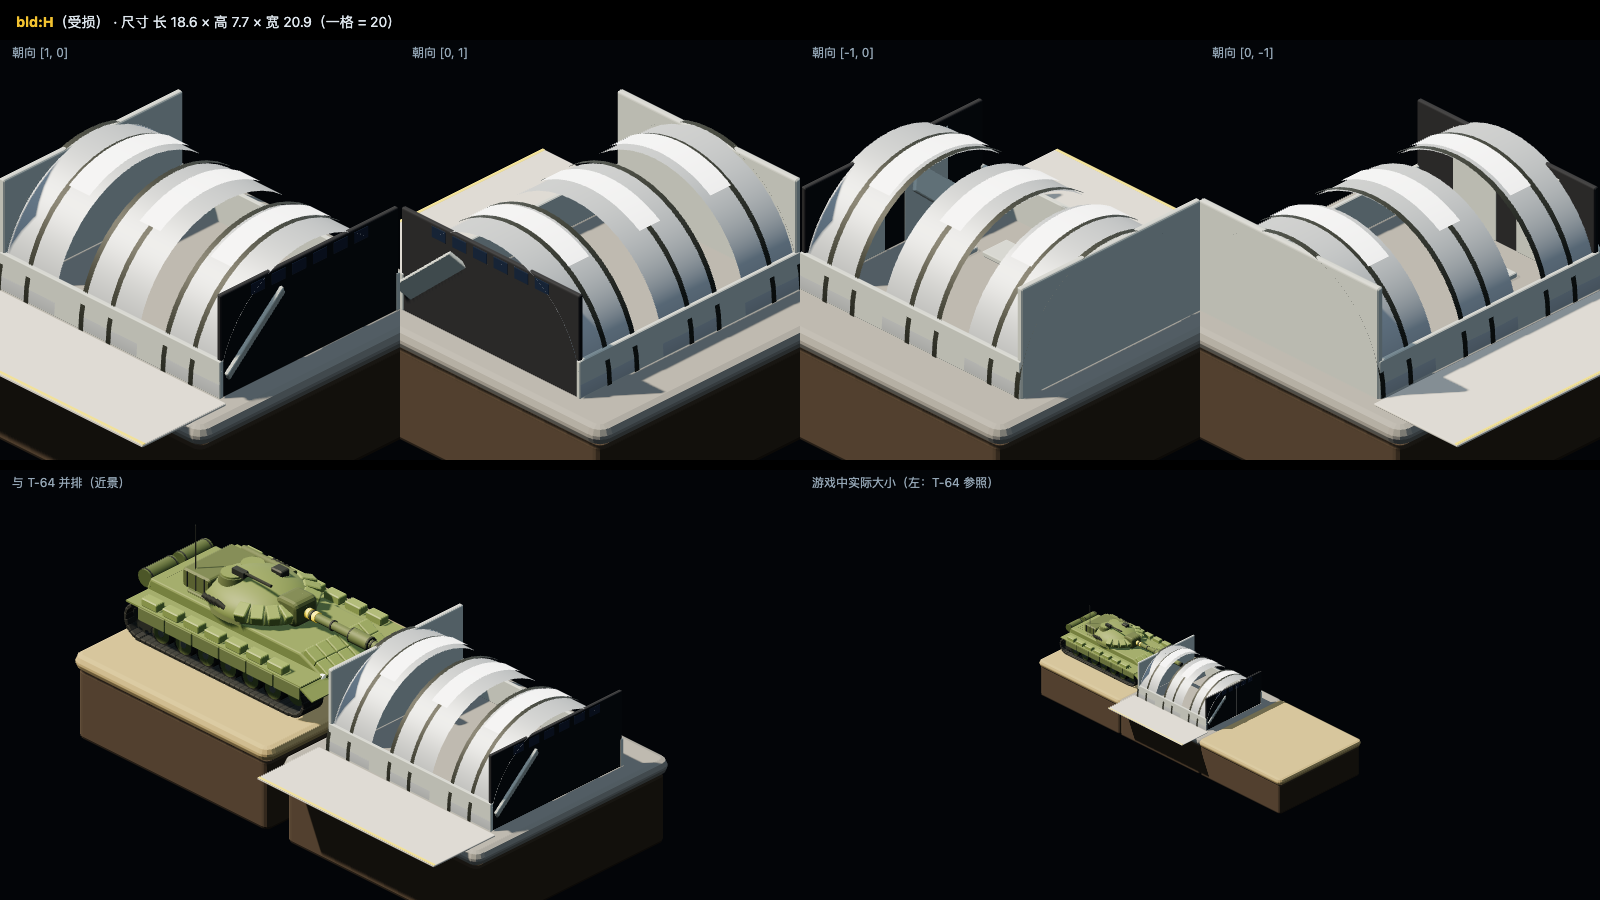
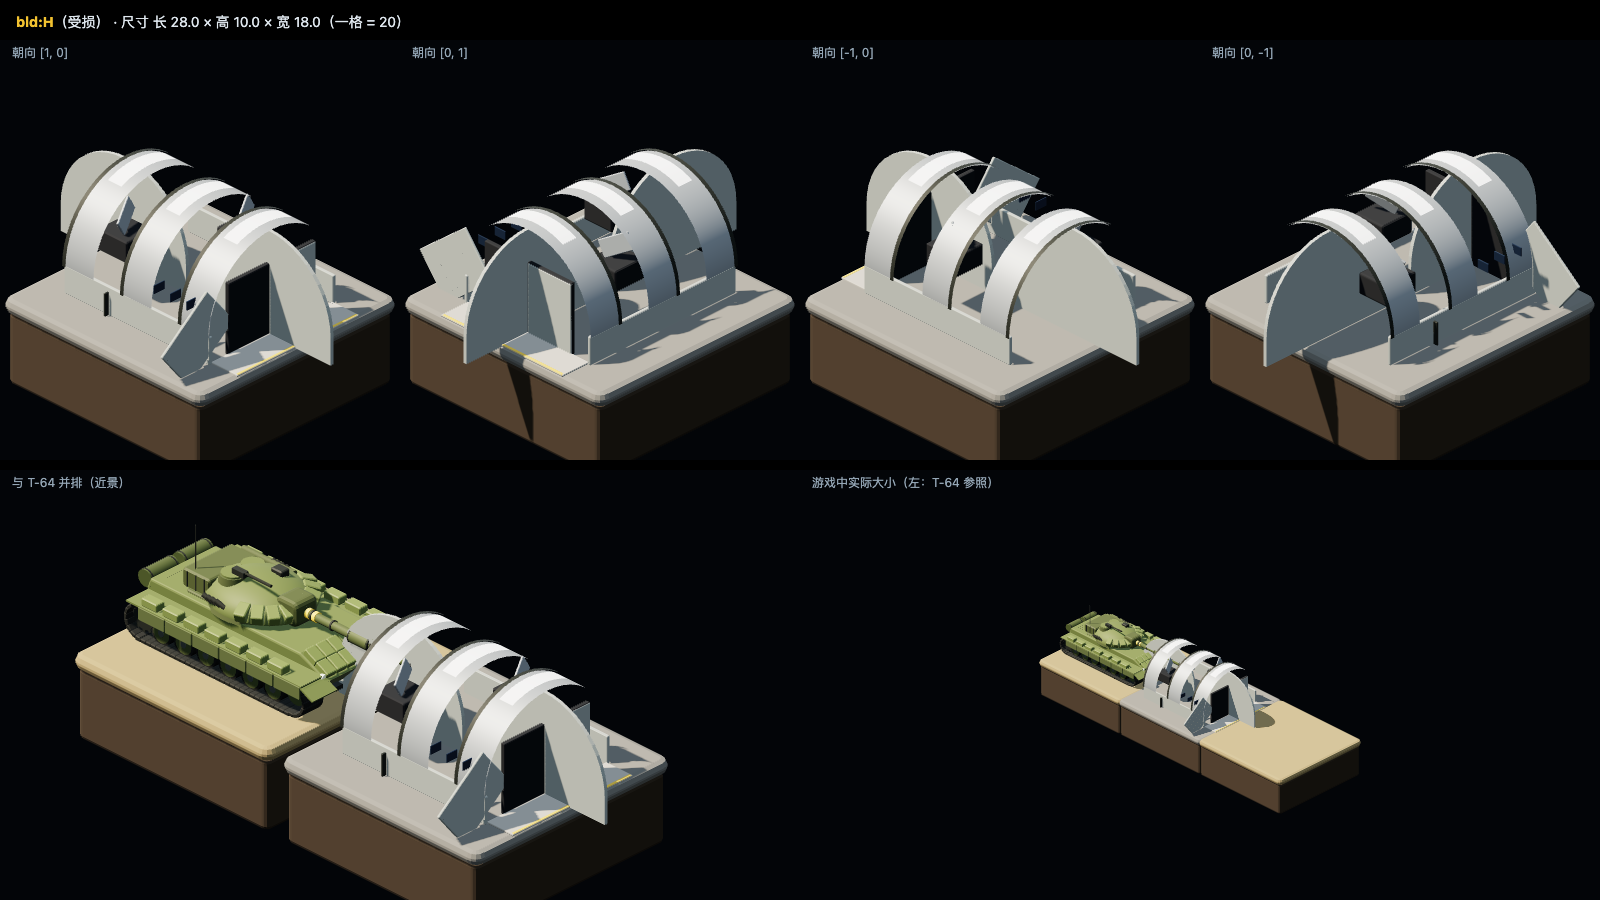
T-32: 第 2 轮修改（机库拱形山墙、推拉门、尺寸收回格内）

diff --git a/game/js/models3d.js b/game/js/models3d.js
@@ -1160,34 +1160,43 @@ function m3Hangar(seed, dmg) {
   const T = new THREE.Group();
   const ARCH = mat3('#9aa0a3', 0.5, 0.4), WALLH = mat3('#8f948f', 0.8), DKI = mat3('#1b1e22', 0.9), DKS = mat3('#2d302a', 0.6, 0.3), GLS = mat3('#223044', 0.1, 0.3);
   const SNOW = mat3('#eef2f4', 0.75), APRON = mat3('#9d9a92', 0.9), YEL = mat3('#c9a53a', 0.7);
-  const H = new THREE.Group(); H.position.set(0, 0, 0); T.add(H);
-  // half-cylinder arch roof built from lengthwise segments; ribs at every segment edge
-  const segW = 17 / 8;
-  for (let sgi = 0; sgi < 8; sgi++) {
-    const sx = -8.5 + segW * (sgi + 0.5);
-    if (dmg && (sgi === 2 || sgi === 5)) continue;
-    part(H, new THREE.CylinderGeometry(7.05, 7.05, segW * 1.002, 24, 1, true, 0, Math.PI), ARCH, sx, 0.1, 0, 0, 0, HALF_PI);
-    part(H, new THREE.CylinderGeometry(7.18, 7.18, 0.35, 24, 1, true, 0, Math.PI), DKS, -8.5 + segW * sgi + 0.05, 0.1, 0, 0, 0, HALF_PI);
+  // 1. gable walls shaped like the arch cross-section (absarc), extruded 0.3
+  const gShape = new THREE.Shape();
+  gShape.moveTo(-6.5, 0); gShape.lineTo(6.5, 0); gShape.absarc(0, 2.3, 6.5, 0, Math.PI, false); gShape.closePath();
+  const gGeo = new THREE.ExtrudeGeometry(gShape, { depth: 0.3, bevelEnabled: false });
+  part(T, gGeo, WALLH, 7.35, 0, 0);
+  part(T, gGeo, WALLH, -7.65, 0, 0);
+  // side walls below the spring line
+  for (const s of [-1, 1]) part(T, rbox(15, 2.3, 0.3, 0.05, 1), WALLH, 0, 1.15, s * 6.4);
+  // 2. arch roof from five lengthwise segments; two segments removed when damaged
+  const segL = 3.0;
+  for (let sgi = 0; sgi < 5; sgi++) {
+    const sx = -7.5 + segL * (sgi + 0.5);
+    if (dmg && (sgi === 1 || sgi === 3)) continue;
+    part(T, new THREE.CylinderGeometry(6.55, 6.55, segL * 1.002, 24, 1, true, 0, Math.PI), ARCH, sx, 2.3, 0, 0, 0, HALF_PI);
+    part(T, new THREE.CylinderGeometry(6.68, 6.68, 0.35, 24, 1, true, 0, Math.PI), DKS, -7.5 + segL * sgi + 0.05, 2.3, 0, 0, 0, HALF_PI);
+    if (!(dmg && (sgi === 1 || sgi === 3))) part(T, new THREE.CylinderGeometry(6.72, 6.72, 1.4, 20, 1, true, Math.PI * 0.36, Math.PI * 0.28), SNOW, sx, 2.3, 0, 0, 0, HALF_PI);
   }
-  // snow strips on the arch top
-  for (const sx of [-5.5, 0, 5.5]) part(H, new THREE.CylinderGeometry(7.22, 7.22, 1.6, 20, 1, true, Math.PI * 0.32, Math.PI * 0.36), SNOW, sx, 0.1, 0, 0, 0, HALF_PI);
-  // side walls, closed back wall, side door and a row of high windows
-  for (const s of [-1, 1]) part(H, rbox(17, 2.3, 0.3, 0.05, 1), WALLH, 0, 1.15, s * 6.85);
-  part(H, rbox(0.25, 7.0, 13.9, 0.08, 1), WALLH, -8.45, 3.4, 0);
-  part(H, rbox(0.1, 2.1, 0.9, 0.04, 1), DKS, -8.52, 1.05, 5.6);
-  for (let k = 0; k < 6; k++) part(H, rbox(0.06, 0.7, 1.1, 0.03, 1), GLS, 8.47, 5.9, -4 + k * 1.6);
-  // front: two sliding doors half open, dark interior visible
-  part(H, rbox(0.2, 6.4, 13.8, 0.06, 1), DKI, 8.35, 3.2, 0);
-  part(H, rbox(0.16, 5.9, 3.4, 0.05, 1), WALLH, 8.3, 2.95, -2.4);
-  part(H, rbox(0.16, 5.9, 3.4, 0.05, 1), WALLH, 8.3, 2.95, 2.5);
-  if (dmg) { const dr = part(H, rbox(0.14, 5.7, 3.2, 0.05, 1), WALLH, 8.25, 2.6, 3.9); dr.rotation.x = -0.85; dr.rotation.y = 0.5; }
-  // concrete apron with a yellow edge marking
-  part(H, rbox(18.5, 0.1, 6.5, 0.05, 1), APRON, 0, 0.05, 10.5);
-  part(H, rbox(18.5, 0.09, 0.22, 0.02, 1), YEL, 0, 0.09, 13.6);
-  if (dmg) for (const [px, pz] of [[3.2, 3.6], [5.4, 1.9]]) part(H, rbox(1.6, 0.24, 1.9, 0.05, 1), WALLH, px, 0.12, pz);
+  if (dmg) for (const [hx, hz] of [[-4.5, 3.2], [1.5, -3.2]]) {
+    const fl = part(T, rbox(0.12, 1.4, 2.6, 0.04, 1), ARCH, hx, 6.4, hz); fl.rotation.x = 0.5; fl.rotation.y = 0.4;
+    part(T, rbox(2.9, 1.6, 2.9, 0.1, 1), DKI, hx, 4.4, hz);
+  }
+  // 3. door opening in the front gable: 9 wide, 6 high, dark inside; two sliding panels
+  part(T, rbox(0.3, 6.0, 9.0, 0.05, 1), DKI, 7.3, 3.0, 0);
+  const stiffen = (panel, z0) => { for (let k = 0; k < 4; k++) part(panel, new THREE.BoxGeometry(0.08, 5.6, 0.14), DKS, 0, 0, z0 + k * 1.05 - 1.6); };
+  const P1 = new THREE.Group(); P1.position.set(7.42, 3.0, -2.25); T.add(P1);
+  part(P1, rbox(0.14, 5.9, 4.5, 0.05, 1), WALLH, 0, 0, 0); stiffen(P1, 0);
+  const P2 = new THREE.Group(); P2.position.set(7.42, 3.0, 6.7); T.add(P2);
+  part(P2, rbox(0.14, 5.9, 4.5, 0.05, 1), WALLH, 0, 0, 0); stiffen(P2, 0);
+  if (dmg) { P2.rotation.x = -0.9; P2.position.set(7.3, 2.6, 7.6); }
+  // small side door and three high windows on one side
+  part(T, rbox(0.1, 1.9, 1.0, 0.04, 1), DKS, -3.0, 0.95, 6.42);
+  for (let k = 0; k < 3; k++) part(T, rbox(0.06, 0.7, 1.1, 0.03, 1), GLS, 2.2 + k * 1.7, 4.4, 6.44);
+  // concrete apron, depth 2.6, yellow edge marking
+  part(T, rbox(2.7, 0.1, 12.6, 0.05, 1), APRON, 8.8, 0.05, 0);
+  part(T, rbox(0.2, 0.08, 12.4, 0.02, 1), YEL, 10.05, 0.09, 0);
   return T;
 }
-MODEL3D['bld:S'] = m3Substation;
 MODEL3D['bld:H'] = m3Hangar;
 
 // ---------- T-33 废墟 bld:rubble 与断桥 prop:bridge ----------

diff --git a/docs/tasks/T-32-精修变电站与机库.md b/docs/tasks/T-32-精修变电站与机库.md
@@ -89,6 +89,27 @@
 
 需审查方决定的问题：无。
 
+**第 2 轮（执行方：ZCode）**
+
+变电站未动（已通过）。机库按第 1 轮审查意见重做：
+1. **山墙改拱形**：`THREE.Shape` 底边直线 + `absarc(0, 2.3, 6.5, 0, π)` 半圆，`ExtrudeGeometry` 挤出 0.3 厚，前后各一；山墙外沿与拱顶齐平（半径 6.5，圆心 y 2.3）。
+2. **尺寸收回格内**：拱顶长 15（x ±7.5）、跨度 13（z ±6.5，含侧墙 13.5）；门前地坪进深 2.6（x 7.45..10.15）——整体含地坪在 18 × 18 以内。
+3. **推拉门**：前拱面开 9 宽 × 6 高的矩形门洞（洞内深色盒）；两扇门板各宽 4.5、高 5.9、带 4 根竖向加强条——一扇关在洞左半，另一扇拉开到洞右外的墙面上，与门洞错开；受损状态：拉开的门板歪倒（rotation.x -0.9 靠在墙边）。
+4. 受损态拱顶两个大洞：拱顶分 5 段，第 2、4 段移除，洞缘翘起铁皮 + 洞内黑色盒；积雪条只在没有洞的段上。
+5. 保留：侧墙、小侧门、三扇高窗、雪条、地坪黄线。
+
+自测：
+- `node tools/check.js`：✓ 语法（19 个文件）；✓ 范围（仅 models3d.js）。
+- `node tools/playtest.js /tmp/pt-T-32r2`：`ERRORS none`，退出码 0。
+- `node tools/shot3d.js /tmp/s3-T-32r2`：`SHOT3D OK`，退出码 0；`model-shot` bld:H 与 bld:H dmg：均 `MODEL OK`。
+- `bld_H.png`、`bld_H-dmg.png` 重拍并逐张目检：拱形山墙、推拉门一关一拉、受损态拱顶两洞 + 歪门清晰；整体含地坪在格内。
+
+过程中发现并修复：重写时漏定义局部材质 GLS（高窗），由 model-shot 定位补上。
+
+需审查方决定的问题：无。
+
+## 审查意见（审查方写）
+
 ## 审查意见（审查方写）
 
 ## 审查意见（审查方写）
